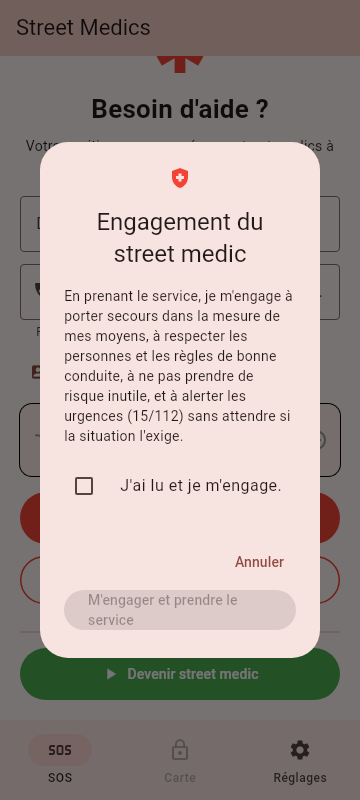
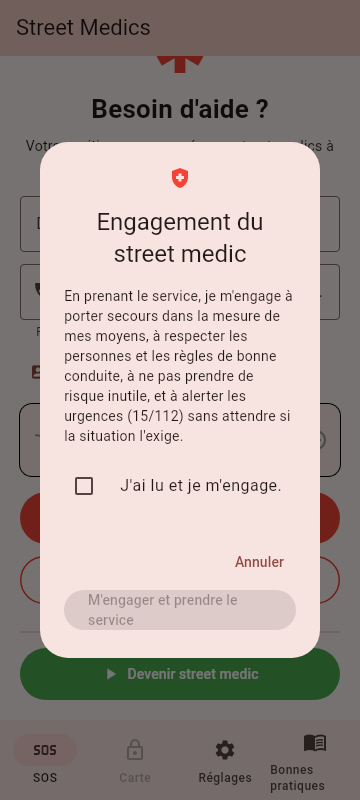
feat: 4ème onglet 'Bonnes pratiques' (grisé, coming soon)
- Nouvel onglet PracticesTab entre Carte et Réglages
- Banderole 'Coming Soon' avec icône menu_book
- Clé tabPractices ajoutée dans les 24 langues
- Test d'inventaire mis à jour (index 3 pour Réglages, capture 16)

diff --git a/lib/practices_tab.dart b/lib/practices_tab.dart
@@ -1,0 +1,75 @@
+import 'package:flutter/material.dart';
+
+/// Onglet « Bonnes pratiques » — grisé, en attente du contenu.
+///
+/// L'utilisateur a demandé un 4ème onglet avant les Réglages. Pour l'instant
+/// il est désactivé (grisé) avec une banderole « Coming Soon » : pas de
+/// contenu à afficher, mais l'emplacement est réservé.
+class PracticesTab extends StatelessWidget {
+  const PracticesTab({super.key});
+
+  @override
+  Widget build(BuildContext context) {
+    final scheme = Theme.of(context).colorScheme;
+    return Scaffold(
+      body: Center(
+        child: Column(
+          mainAxisSize: MainAxisSize.min,
+          children: [
+            Icon(
+              Icons.menu_book,
+              size: 64,
+              color: scheme.onSurface.withValues(alpha: 0.3),
+            ),
+            const SizedBox(height: 16),
+            Text(
+              'Bonnes pratiques',
+              style: Theme.of(context).textTheme.headlineSmall?.copyWith(
+                    color: scheme.onSurface.withValues(alpha: 0.5),
+                  ),
+            ),
+            const SizedBox(height: 24),
+            // Banderole « Coming Soon »
+            Container(
+              padding: const EdgeInsets.symmetric(horizontal: 24, vertical: 12),
+              decoration: BoxDecoration(
+                color: scheme.surfaceContainerHighest,
+                borderRadius: BorderRadius.circular(8),
+                border: Border.all(
+                  color: scheme.outline.withValues(alpha: 0.3),
+                ),
+              ),
+              child: Row(
+                mainAxisSize: MainAxisSize.min,
+                children: [
+                  Icon(
+                    Icons.hourglass_empty,
+                    size: 20,
+                    color: scheme.onSurface.withValues(alpha: 0.6),
+                  ),
+                  const SizedBox(width: 8),
+                  Text(
+                    'Coming Soon',
+                    style: TextStyle(
+                      fontSize: 16,
+                      fontWeight: FontWeight.w600,
+                      color: scheme.onSurface.withValues(alpha: 0.7),
+                    ),
+                  ),
+                ],
+              ),
+            ),
+            const SizedBox(height: 16),
+            Text(
+              'Conseils et gestes de premiers secours',
+              style: TextStyle(
+                fontSize: 14,
+                color: scheme.onSurface.withValues(alpha: 0.4),
+              ),
+            ),
+          ],
+        ),
+      ),
+    );
+  }
+}

diff --git a/lib/main.dart b/lib/main.dart
@@ -4,6 +4,8 @@ import 'dart:math' as math;
 
 import 'package:flutter/material.dart';
 import 'package:flutter/services.dart';
+
+import 'practices_tab.dart';
 import 'package:flutter_foreground_task/flutter_foreground_task.dart';
 import 'package:flutter_localizations/flutter_localizations.dart';
 import 'package:flutter_map/flutter_map.dart';
@@ -252,6 +254,7 @@ class _MainScreenState extends State<MainScreen> {
         children: const [
           SosTab(),
           MapTab(),
+          PracticesTab(),
           SettingsTab(),
         ],
       ),
@@ -275,6 +278,8 @@ class _MainScreenState extends State<MainScreen> {
           ),
           NavigationDestination(
               icon: const Icon(Icons.settings), label: t.tabSettings),
+          NavigationDestination(
+              icon: const Icon(Icons.menu_book), label: t.tabPractices),
         ],
       ),
     );

diff --git a/test/ui_inventory_test.dart b/test/ui_inventory_test.dart
@@ -229,15 +229,21 @@ void main() {
 
   testWidgets('07 onglet Reglages (haut)', (tester) async {
     await mountApp(tester);
-    await tab(tester, 2);
+    await tab(tester, 3);
     await shoot(tester, '07_onglet_reglages_haut');
   });
 
   testWidgets('08 onglet Reglages (bas)', (tester) async {
     await mountApp(tester);
-    await tab(tester, 2);
+    await tab(tester, 3);
     await scrollDown(tester, -400);
     await shoot(tester, '08_onglet_reglages_bas');
+  });
+
+  testWidgets('16 onglet Bonnes pratiques (coming soon)', (tester) async {
+    await mountApp(tester);
+    await tab(tester, 2);
+    await shoot(tester, '16_onglet_bonnes_pratiques');
   });
 
   testWidgets('09 selecteur de blessures (face)', (tester) async {
